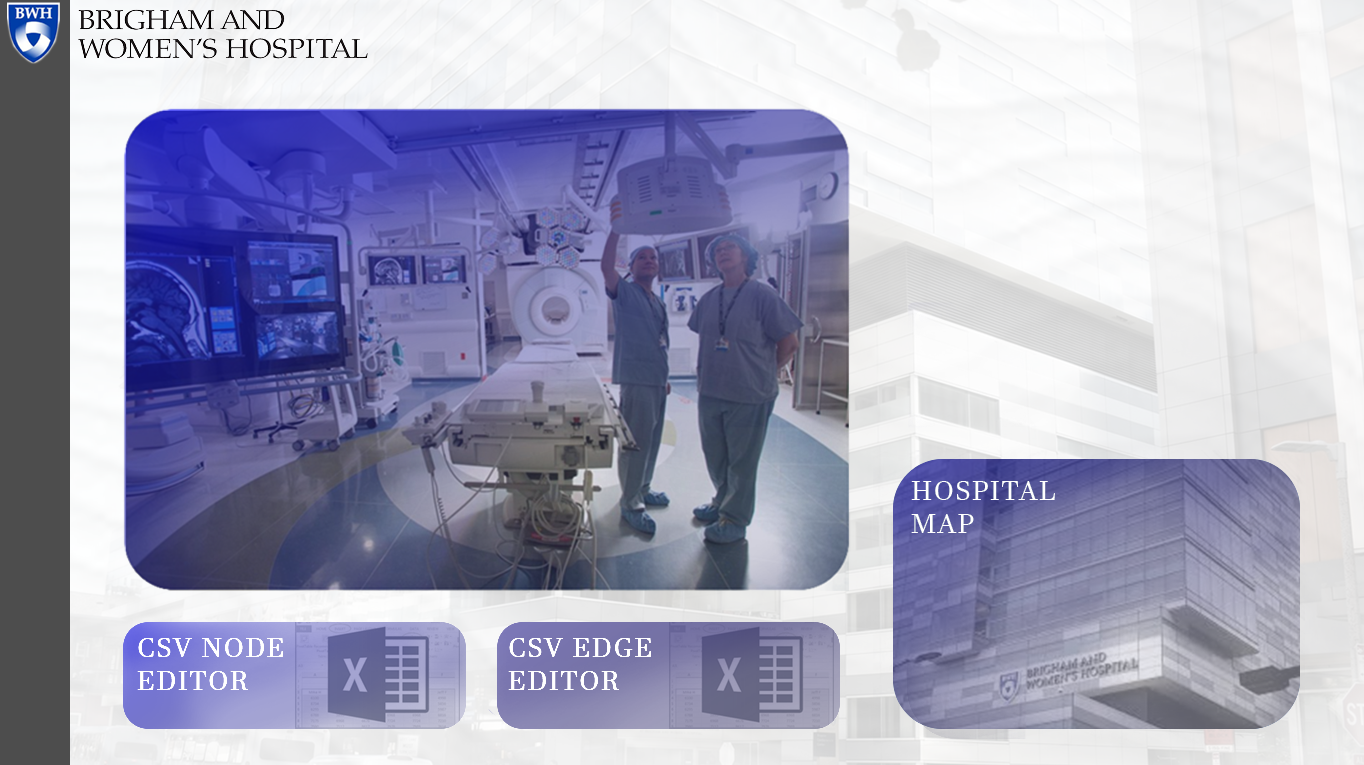
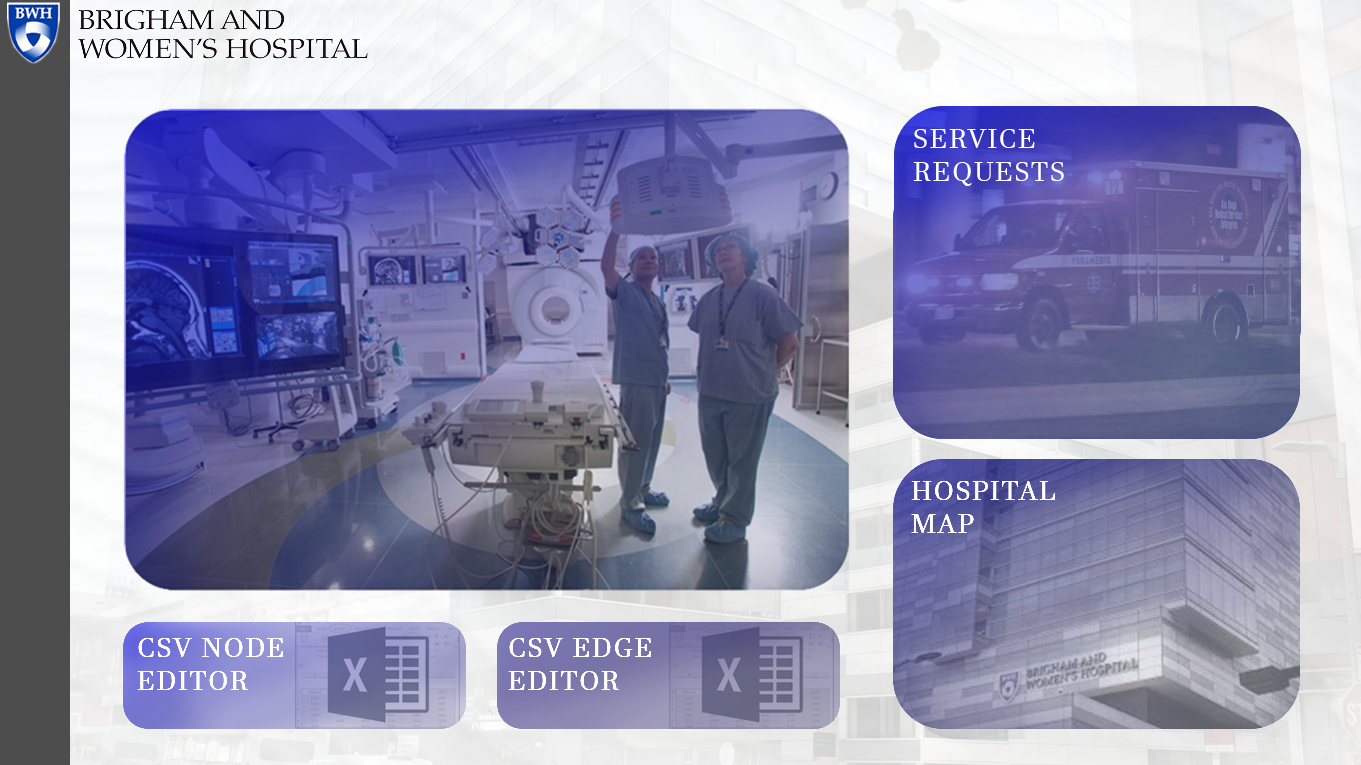
Added separate Service Request screen

diff --git a/src/main/java/edu/wpi/teamname/views/ServiceRequests.java b/src/main/java/edu/wpi/teamname/views/ServiceRequests.java
@@ -6,15 +6,18 @@ import edu.wpi.teamname.state.HomeState;
 import java.io.IOException;
 import java.net.URL;
 import java.util.ResourceBundle;
+import javafx.event.ActionEvent;
 import javafx.fxml.FXML;
 import javafx.fxml.FXMLLoader;
 import javafx.fxml.Initializable;
+import javafx.scene.Parent;
 import javafx.scene.Scene;
+import javafx.scene.control.Button;
 import javafx.scene.control.Label;
 import lombok.extern.slf4j.Slf4j;
 
 @Slf4j
-public class LaundryRequest extends masterController implements Initializable {
+public class ServiceRequests extends masterController implements Initializable {
 
   @Inject DatabaseService db;
   @Inject FXMLLoader loader;
@@ -34,6 +37,18 @@ public class LaundryRequest extends masterController implements Initializable {
     this.appPrimaryScene = appPrimaryScene;
   }
 
+  public void advance(ActionEvent actionEvent) throws IOException {
+    String file = "Requests/" + ((Button) actionEvent.getSource()).getId() + ".fxml";
+    Parent root = loader.load(getClass().getResourceAsStream(file));
+    appPrimaryScene.setRoot(root);
+  }
+
+  public void advanceViews(ActionEvent actionEvent) throws IOException {
+    String file = ((Button) actionEvent.getSource()).getId() + ".fxml";
+    Parent root = loader.load(getClass().getResourceAsStream(file));
+    appPrimaryScene.setRoot(root);
+  }
+
   @Override
   public void initialize(URL location, ResourceBundle resources) {
     log.debug(state.toString());
@@ -41,6 +56,6 @@ public class LaundryRequest extends masterController implements Initializable {
 
   @FXML
   public void advanceHome() throws IOException {
-    super.advanceServiceRequest(loader, appPrimaryScene);
+    super.advanceHome(loader, appPrimaryScene);
   }
 }

diff --git a/src/main/java/edu/wpi/teamname/views/masterController.java b/src/main/java/edu/wpi/teamname/views/masterController.java
@@ -54,6 +54,12 @@ public class masterController implements Initializable {
     ChildAppPrimaryScene.setRoot(root);
   }
 
+  public void advanceServiceRequest(FXMLLoader childLoader, Scene ChildAppPrimaryScene)
+      throws IOException {
+    Parent root = childLoader.load(getClass().getResourceAsStream("ServiceRequests.fxml"));
+    ChildAppPrimaryScene.setRoot(root);
+  }
+
   @FXML
   public void returnToRequest(
       FXMLLoader childLoader, Scene ChildAppPrimaryScene, String requestPath) throws IOException {

diff --git a/src/main/java/edu/wpi/teamname/views/FacilityMaintenanceRequest.java b/src/main/java/edu/wpi/teamname/views/FacilityMaintenanceRequest.java
@@ -42,7 +42,7 @@ public class FacilityMaintenanceRequest extends masterController implements Init
 
   @FXML
   public void advanceHome() throws IOException {
-    super.advanceHome(loader, appPrimaryScene);
+    super.advanceServiceRequest(loader, appPrimaryScene);
   }
 
   public void Submit(ActionEvent actionEvent) throws IOException {

diff --git a/src/main/java/edu/wpi/teamname/views/FoodDeliveryRequest.java b/src/main/java/edu/wpi/teamname/views/FoodDeliveryRequest.java
@@ -55,7 +55,7 @@ public class FoodDeliveryRequest extends masterController implements Initializab
 
   @FXML
   public void advanceHome() throws IOException {
-    super.advanceHome(loader, appPrimaryScene);
+    super.advanceServiceRequest(loader, appPrimaryScene);
   }
 
   public void Submit(ActionEvent actionEvent) throws IOException {

diff --git a/src/main/java/edu/wpi/teamname/views/InternalPatientRequest.java b/src/main/java/edu/wpi/teamname/views/InternalPatientRequest.java
@@ -74,7 +74,7 @@ public class InternalPatientRequest extends masterController implements Initiali
 
   @FXML
   public void advanceHome() throws IOException {
-    super.advanceHome(loader, appPrimaryScene);
+    super.advanceServiceRequest(loader, appPrimaryScene);
   }
 
   public void Submit(ActionEvent actionEvent) throws IOException {

diff --git a/src/main/java/edu/wpi/teamname/views/MedicineDeliveryRequest.java b/src/main/java/edu/wpi/teamname/views/MedicineDeliveryRequest.java
@@ -42,7 +42,7 @@ public class MedicineDeliveryRequest extends masterController implements Initial
 
   @FXML
   public void advanceHome() throws IOException {
-    super.advanceHome(loader, appPrimaryScene);
+    super.advanceServiceRequest(loader, appPrimaryScene);
   }
 
   public void Submit(ActionEvent actionEvent) throws IOException {

diff --git a/src/main/java/edu/wpi/teamname/views/FloralRequest.java b/src/main/java/edu/wpi/teamname/views/FloralRequest.java
@@ -42,7 +42,7 @@ public class FloralRequest extends masterController implements Initializable {
 
   @FXML
   public void advanceHome() throws IOException {
-    super.advanceHome(loader, appPrimaryScene);
+    super.advanceServiceRequest(loader, appPrimaryScene);
   }
 
   public void Submit(ActionEvent actionEvent) throws IOException {

diff --git a/src/main/java/edu/wpi/teamname/views/AudioVisualRequest.java b/src/main/java/edu/wpi/teamname/views/AudioVisualRequest.java
@@ -43,6 +43,6 @@ public class AudioVisualRequest extends masterController implements Initializabl
 
   @FXML
   public void advanceHome() throws IOException {
-    super.advanceHome(loader, appPrimaryScene);
+    super.advanceServiceRequest(loader, appPrimaryScene);
   }
 }

diff --git a/src/main/java/edu/wpi/teamname/views/ExternalPatientRequest.java b/src/main/java/edu/wpi/teamname/views/ExternalPatientRequest.java
@@ -41,6 +41,6 @@ public class ExternalPatientRequest extends masterController implements Initiali
 
   @FXML
   public void advanceHome() throws IOException {
-    super.advanceHome(loader, appPrimaryScene);
+    super.advanceServiceRequest(loader, appPrimaryScene);
   }
 }

diff --git a/src/main/java/edu/wpi/teamname/views/GiftDeliveryRequest.java b/src/main/java/edu/wpi/teamname/views/GiftDeliveryRequest.java
@@ -41,6 +41,6 @@ public class GiftDeliveryRequest extends masterController implements Initializab
 
   @FXML
   public void advanceHome() throws IOException {
-    super.advanceHome(loader, appPrimaryScene);
+    super.advanceServiceRequest(loader, appPrimaryScene);
   }
 }

diff --git a/src/main/java/edu/wpi/teamname/views/LanguageInterpretersRequest.java b/src/main/java/edu/wpi/teamname/views/LanguageInterpretersRequest.java
@@ -41,6 +41,6 @@ public class LanguageInterpretersRequest extends masterController implements Ini
 
   @FXML
   public void advanceHome() throws IOException {
-    super.advanceHome(loader, appPrimaryScene);
+    super.advanceServiceRequest(loader, appPrimaryScene);
   }
 }

diff --git a/src/main/java/edu/wpi/teamname/views/ReligiousRequests.java b/src/main/java/edu/wpi/teamname/views/ReligiousRequests.java
@@ -41,6 +41,6 @@ public class ReligiousRequests extends masterController implements Initializable
 
   @FXML
   public void advanceHome() throws IOException {
-    super.advanceHome(loader, appPrimaryScene);
+    super.advanceServiceRequest(loader, appPrimaryScene);
   }
 }
